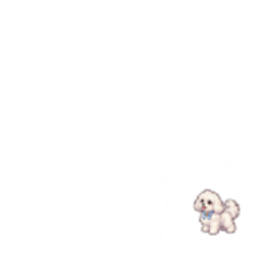
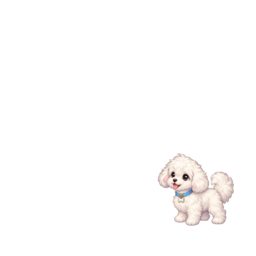
fix: sharpen companion and correct facing direction

Changed region(s): [[0.5938, 0.5938, 0.9375, 0.9375]]

diff --git a/avatar-assets.css b/avatar-assets.css
@@ -5,7 +5,7 @@
 .avatar-preview{width:216px!important;height:216px!important;border-radius:24px!important}.avatar-preview .preview-base,.avatar-preview .preview-layer{position:absolute!important;inset:0!important;width:100%!important;height:100%!important;transform:none!important;display:block!important;line-height:0!important}
 .preview-base{z-index:2}.preview-bag{z-index:1!important}.preview-face{z-index:3!important}.preview-hair{z-index:4!important}.preview-outfit,.preview-bottom,.preview-shoes{z-index:5!important}.preview-expression{z-index:6!important}.preview-hat,.preview-glasses,.preview-hand,.preview-pet{z-index:7!important}
 .svg-asset svg,.image-asset img{display:block;pointer-events:none;user-select:none}.svg-asset svg{width:100%;height:100%;object-fit:contain;filter:drop-shadow(0 1px 0 #fff9) saturate(1.12) contrast(1.04)}.image-asset img{width:100%!important;height:100%!important;max-width:100%!important;margin-left:0!important;object-fit:contain!important;filter:drop-shadow(0 1px 0 #fff8)}
-#player.is-walking .player-icon,#player.is-walking .avatar-layer{animation:studyvillage-walk-bob .34s steps(2,end) infinite alternate}#player.facing-left .player-icon,#player.facing-left .avatar-layer{transform:scaleX(-1)!important}#player.facing-right .player-icon,#player.facing-right .avatar-layer{transform:scaleX(1)!important}#player.is-idle .player-icon,#player.is-idle .avatar-layer{animation:none}@keyframes studyvillage-walk-bob{from{translate:0 0}to{translate:0 -3px}}
+#player.is-walking .player-icon,#player.is-walking .avatar-layer{animation:studyvillage-walk-bob .34s steps(2,end) infinite alternate}#player.facing-left .player-icon,#player.facing-left .avatar-layer{transform:scaleX(1)!important}#player.facing-right .player-icon,#player.facing-right .avatar-layer{transform:scaleX(-1)!important}#player.is-idle .player-icon,#player.is-idle .avatar-layer{animation:none}@keyframes studyvillage-walk-bob{from{translate:0 0}to{translate:0 -3px}}
 .sv-rank-avatar{width:72px!important;height:72px!important;border-radius:18px!important}.sv-rank-avatar>span{position:absolute!important;inset:0!important;width:100%!important;height:100%!important;transform:none!important;line-height:0!important}.sv-rank-bag{z-index:1!important}.sv-rank-base{z-index:2}.sv-rank-face,.sv-rank-hair{z-index:3!important}.sv-rank-outfit,.sv-rank-bottom,.sv-rank-shoes{z-index:4!important}.sv-rank-expression,.sv-rank-effect{z-index:5!important}.sv-rank-hat,.sv-rank-glasses,.sv-rank-hand,.sv-rank-pet{z-index:6!important}
 .base-choice-preview,.item-part-preview{display:block!important;width:88px!important;height:88px!important;line-height:0!important}.base-choice-preview svg,.base-choice-preview img,.item-part-preview svg,.item-part-preview img{display:block;width:100%;height:100%;object-fit:contain}.player-label{top:80px!important}
 .shop-wearable-preview{position:relative!important;display:block!important;width:88px!important;height:88px!important;line-height:0!important}.shop-wearable-preview>i,.item-part-preview>i{position:absolute!important;inset:0!important;display:block!important;width:100%!important;height:100%!important}.shop-wearable-preview svg,.shop-wearable-preview img,.item-part-preview svg,.item-part-preview img{display:block;width:100%;height:100%;object-fit:contain}.shop-preview-base{z-index:1}.shop-preview-hair{z-index:2}.shop-preview-part{z-index:3}

diff --git a/avatar-renderer.js b/avatar-renderer.js
@@ -60,7 +60,7 @@ window.StudyVillageAvatar=(()=>{
     'pet-maltese-production':{src:`${RPG}production/pets/maltese.png?v=20260902large2`,alt:'하얀 말티즈'},'pet-toy-poodle-production':{src:`${RPG}production/pets/toy-poodle.png?v=20260902large2`,alt:'살구 토이푸들'},'pet-corgi-production':{src:`${RPG}production/pets/corgi.png?v=20260902large2`,alt:'통통 웰시코기'},'pet-cheese-cat-production':{src:`${RPG}production/pets/cheese-cat.png?v=20260902large2`,alt:'치즈 줄무늬 고양이'},'pet-lop-rabbit-production':{src:`${RPG}production/pets/lop-rabbit.png?v=20260902large2`,alt:'크림 롭이어 토끼'},'pet-baby-dragon-production':{src:`${RPG}production/pets/baby-dragon.png?v=20260902large2`,alt:'사파이어 꼬마 용'},
     'outfit-camp-explorer-v2':{src:`${RPG}v2/outfits/camp-explorer-v1.png?v=20260902art3`,onePiece:true,alt:'캠핑 탐험가 한벌 의상'},
     'effect-starlight-v2':{svg:frame('<g fill="#ffd95a" stroke="#b87a24" stroke-width="1"><path d="M8 34l2 5 6 1-5 4 2 6-5-3-5 3 2-6-5-4 6-1z"/><path d="M88 58l2 5 6 1-5 4 2 6-5-3-5 3 2-6-5-4 6-1z"/><path d="M11 100l1.5 4 4.5.5-3.5 3 1 4.5-3.5-2.5L7.5 112l1-4.5-3.5-3 4.5-.5z"/><circle cx="88" cy="105" r="2.5"/><circle cx="9" cy="72" r="2"/></g>'),alt:'포근한 별빛 효과'},
-    'pet-cream-pup-v2':{src:`${RPG}v2/pets/cream-pup-v1.png?v=20260902art3`,alt:'크림 강아지'}
+    'pet-cream-pup-v2':{src:`${RPG}v2/pets/cream-pup-v1.png?v=20260902art4`,alt:'크림 강아지'}
   };
   function paint(element,spec){if(!element)return;element.replaceChildren();element.classList.toggle('image-asset',!!spec?.src);element.classList.toggle('svg-asset',!!spec?.svg);if(spec?.svg)element.innerHTML=spec.svg;else if(spec?.src){const img=document.createElement('img');img.src=spec.src;img.alt=spec.alt||'';img.draggable=false;element.appendChild(img)}else element.textContent=spec?.emoji||''}
   function base(id='student-default'){return BASES[id]||BASES['student-default']}

diff --git a/avatar-basic-pack-contract-selftest.js b/avatar-basic-pack-contract-selftest.js
@@ -14,6 +14,6 @@ assert.ok(ranking.includes("['outfit','effect','bottom','shoes','hat','glasses',
 assert.ok(server.includes('equipment:rankingEquipment(row)'),'ranking API must return allowlisted equipment');
 assert.ok(admin.includes("for(const slot of ['effect','outfit','pet'])"),'teacher student table must paint canonical avatar layers');
 assert.ok(adminShop.includes('admin-shop-product-preview'),'teacher shop must render graphical product previews');
-assert.ok(adminHtml.includes('avatar-renderer.js?v=20260902art3'),'teacher mode must load the canonical renderer');
+assert.ok(adminHtml.includes('avatar-renderer.js?v=20260902art4'),'teacher mode must load the canonical renderer');
 for(const token of ["NEW_ART_RESET_KEY='avatar:new-art-reset:v2'","stars=0","equipment_json='{}'","owned_items_json='[]'","DELETE FROM star_ledger"])assert.ok(itemShop.includes(token),`one-time tester reset missing: ${token}`);
 console.log('new art one-set integration contract passed');

diff --git a/avatar-medium-template-contract-selftest.js b/avatar-medium-template-contract-selftest.js
@@ -3,6 +3,6 @@ const assert=require('assert');
 const fs=require('fs');
 const renderer=fs.readFileSync('avatar-renderer.js','utf8'),css=fs.readFileSync('avatar-assets.css','utf8');
 assert.ok(renderer.includes('onePiece:true'),'the shared outfit must retain the fixed head socket');
-assert.ok(css.includes('#player.facing-left')&&css.includes('scaleX(-1)'),'the complete avatar and pet must flip together with movement');
+assert.ok(css.includes('#player.facing-left .player-icon,#player.facing-left .avatar-layer{transform:scaleX(1)')&&css.includes('#player.facing-right .player-icon,#player.facing-right .avatar-layer{transform:scaleX(-1)'),'the authored left-facing avatar must mirror only when walking right');
 assert.ok(css.includes('.sv-rank-effect'),'ranking must layer the effect consistently');
 console.log('new art fixed-anchor and movement contract passed');

diff --git a/admin.html b/admin.html
@@ -6,7 +6,7 @@
     <title>Studyvillage 교사용</title>
     <link rel="stylesheet" href="admin.css?v=20260827v2" />
     <link rel="stylesheet" href="admin-checkpoints.css" />
-    <link rel="stylesheet" href="avatar-assets.css?v=20260902art3" />
+    <link rel="stylesheet" href="avatar-assets.css?v=20260902art4" />
   </head>
   <body>
     <main class="admin-wrap">
@@ -204,7 +204,7 @@
     <script src="admin-network-guard.js?v=20260825r8"></script>
     <script src="admin-restore-guard.js?v=v1-restore2"></script>
     <script src="admin-restore-preflight.js"></script>
-    <script src="avatar-renderer.js?v=20260902art3"></script>
+    <script src="avatar-renderer.js?v=20260902art4"></script>
     <script src="admin.js?v=20260825r8"></script>
     <script src="admin-student-edit.js?v=20260825r8"></script>
     <script src="admin-checkpoints.js"></script>

diff --git a/index.html b/index.html
@@ -5,7 +5,7 @@
     <meta name="viewport" content="width=device-width,initial-scale=1" />
     <title>우리 학습마을</title>
     <link rel="stylesheet" href="style.css?v=20260827r11" />
-    <link rel="stylesheet" href="avatar-assets.css?v=20260902art3" />
+    <link rel="stylesheet" href="avatar-assets.css?v=20260902art4" />
     <link rel="stylesheet" href="building-interiors.css?v=20260902r1" />
     <link rel="stylesheet" href="library-game.css?v=20260828v4" />
     <link rel="stylesheet" href="activity-records.css" />
